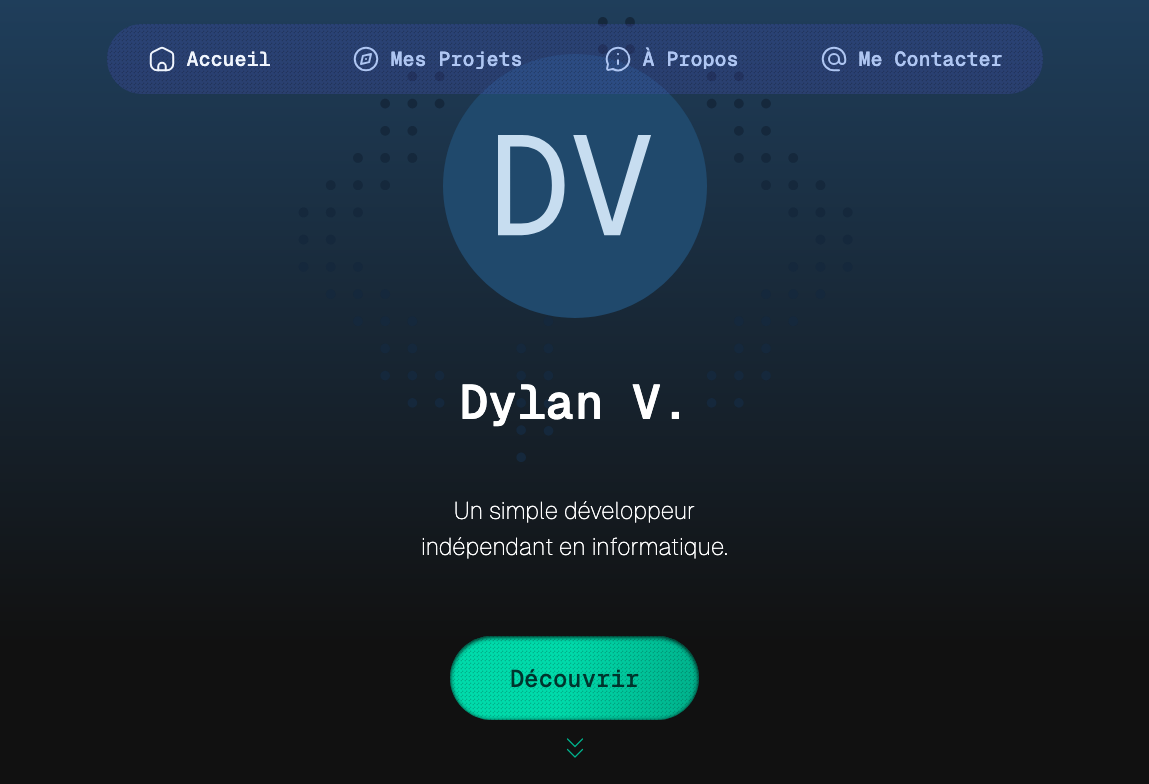
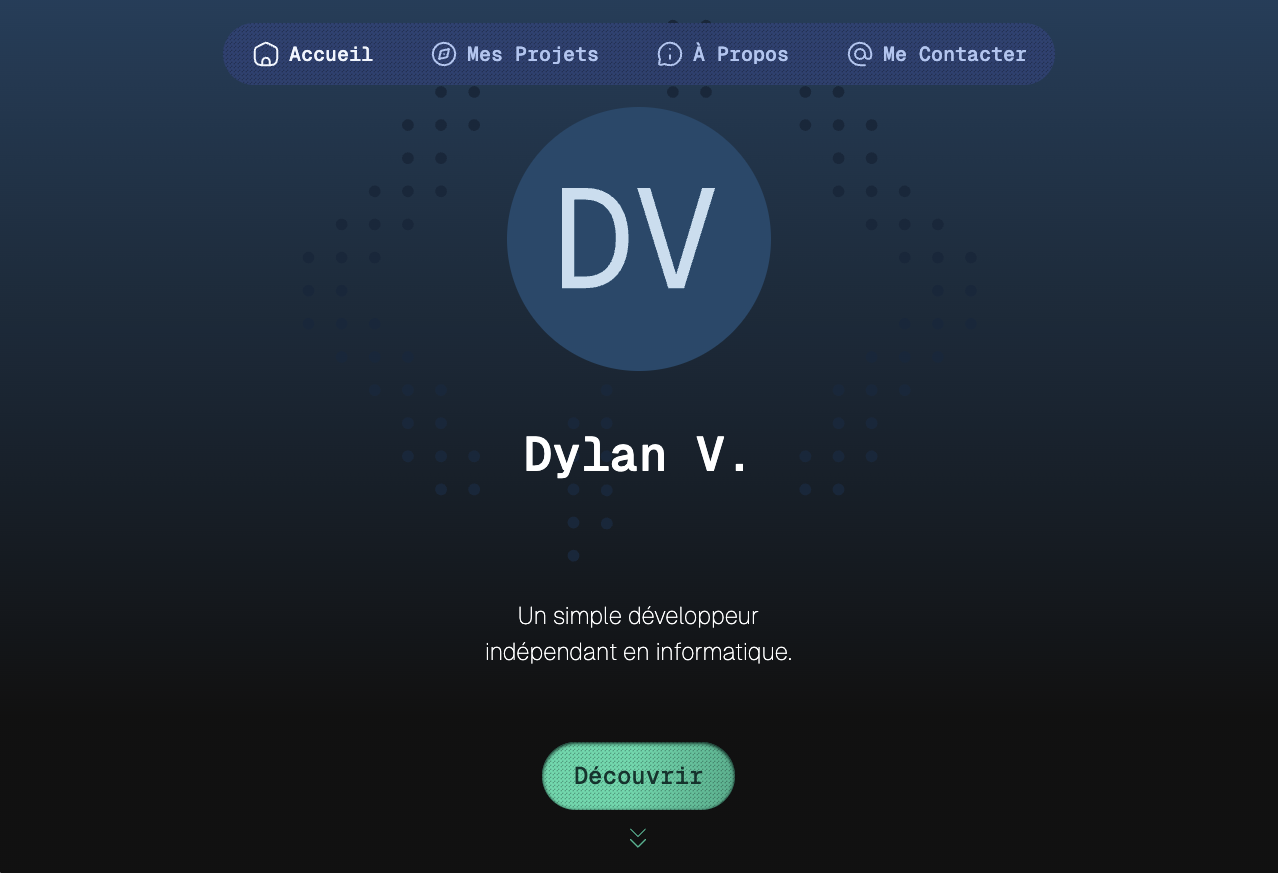
fix(App): image for social network

diff --git a/src/app.rs b/src/app.rs
@@ -52,9 +52,9 @@ pub fn App() -> impl IntoView {
 
         <Meta property="og:url" content="https://dylan-valentin.dev" />
         <Meta property="og:type" content="website" />
-        <Meta property="og:image" content="https://dylan-valentin.dev/images/social.png" />
-        <Meta property="og:width" content="1747" />
-        <Meta property="og:height" content="914" />
+        <Meta property="og:image" content="https://dylan-valentin.dev/images/social.webp" />
+        <Meta property="og:width" content="1200" />
+        <Meta property="og:height" content="630" />
         <Meta property="og:image:type" content="image/png" />
         <Meta property="og:image:alt" content="Image of the homepage" />
 
